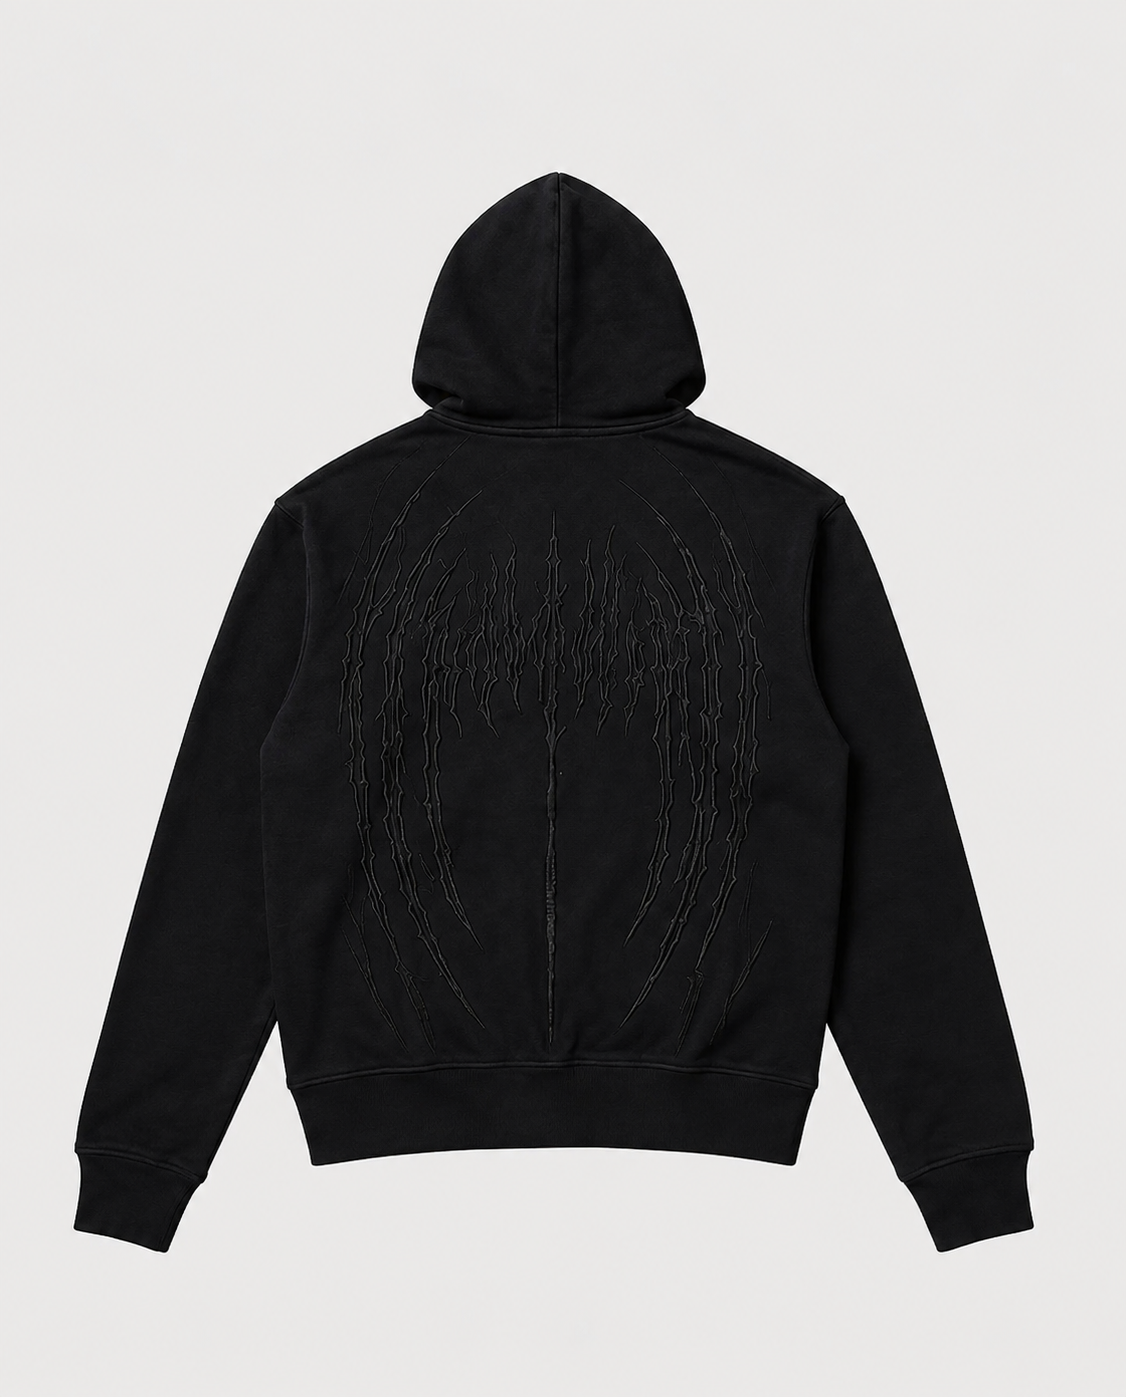
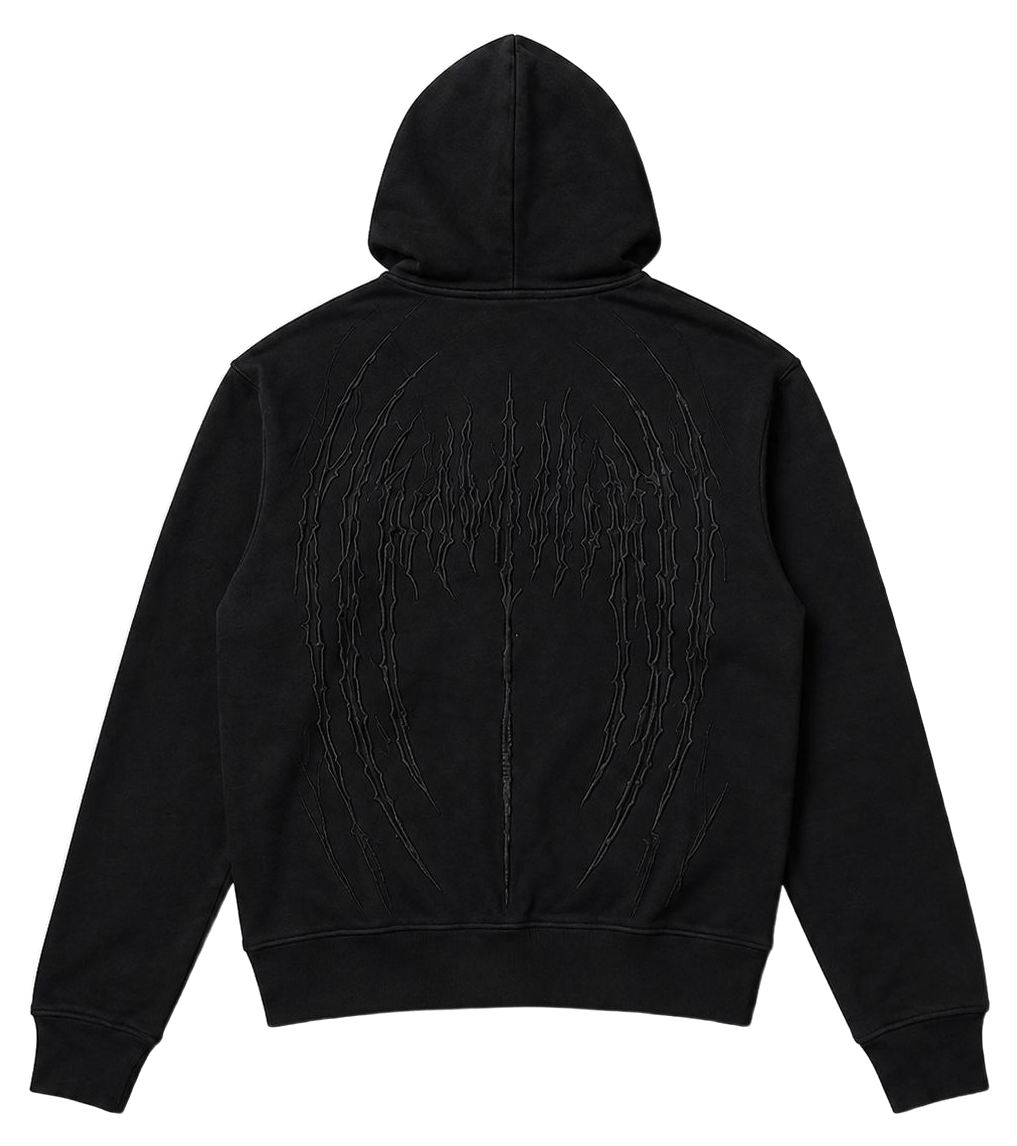
Cut out product photos and float the hoodie free on black
Background-removed front/back hoodie shots (transparent PNG cutouts)
replace the old studio-white photos. ProductCard now renders them with
object-contain instead of a bordered/boxed object-cover crop, adding a
cursor-follow ambient glow and a soft grounded spotlight so the garment
reads as isolated and premium against the void rather than sitting in a
photo card.

diff --git a/components/ProductCard.tsx b/components/ProductCard.tsx
@@ -75,27 +75,29 @@ export default function ProductCard({ front, back }: ProductCardProps) {
             {[front, back].map((face, i) => (
               <div
                 key={face.id}
-                className="absolute inset-0 overflow-hidden border border-white/10 bg-void-soft transition-shadow duration-500 group-hover:shadow-[0_0_60px_-10px_rgba(125,252,255,0.25)]"
+                className="absolute inset-0"
                 style={{ backfaceVisibility: "hidden", transform: i === 1 ? "rotateY(180deg)" : undefined }}
               >
+                {/* ambient cursor-follow glow, behind the garment */}
+                <motion.div
+                  aria-hidden
+                  className="pointer-events-none absolute inset-0 opacity-60 transition-opacity duration-500 group-hover:opacity-100"
+                  style={{ background: glowBackground }}
+                />
+
+                {/* static spotlight pooling under the hoodie for grounding + depth */}
+                <div
+                  aria-hidden
+                  className="pointer-events-none absolute inset-x-[8%] bottom-[6%] h-1/3 rounded-[50%] bg-cyan/10 blur-3xl"
+                />
+
                 <Image
                   src={face.src}
                   alt={face.label}
                   fill
                   sizes="(min-width: 1024px) 45vw, 90vw"
                   priority={i === 0}
-                  className="object-cover"
-                />
-
-                {/* light sweep */}
-                <motion.div
-                  aria-hidden
-                  className="pointer-events-none absolute inset-0 opacity-0 transition-opacity duration-500 group-hover:opacity-100"
-                  style={{ background: glowBackground }}
-                />
-                <div
-                  aria-hidden
-                  className="pointer-events-none absolute inset-0 -translate-x-full bg-gradient-to-r from-transparent via-white/15 to-transparent transition-transform duration-700 ease-out group-hover:translate-x-full"
+                  className="object-contain object-bottom drop-shadow-[0_30px_60px_rgba(0,0,0,0.65)] transition-transform duration-500 group-hover:scale-[1.03]"
                 />
               </div>
             ))}

diff --git a/lib/config.ts b/lib/config.ts
@@ -57,7 +57,7 @@ export const COPY = {
 
 export const IMAGES = {
   logo: "/images/logo.png",
-  hoodieFront: "/images/hoodie-front.jpg",
+  hoodieFront: "/images/hoodie-front.png",
   hoodieBack: "/images/hoodie-back.png",
 } as const;
 
